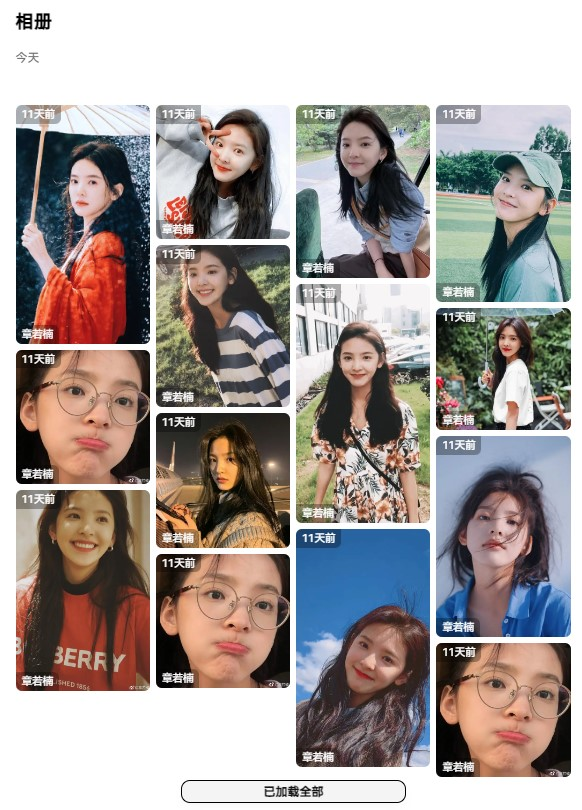
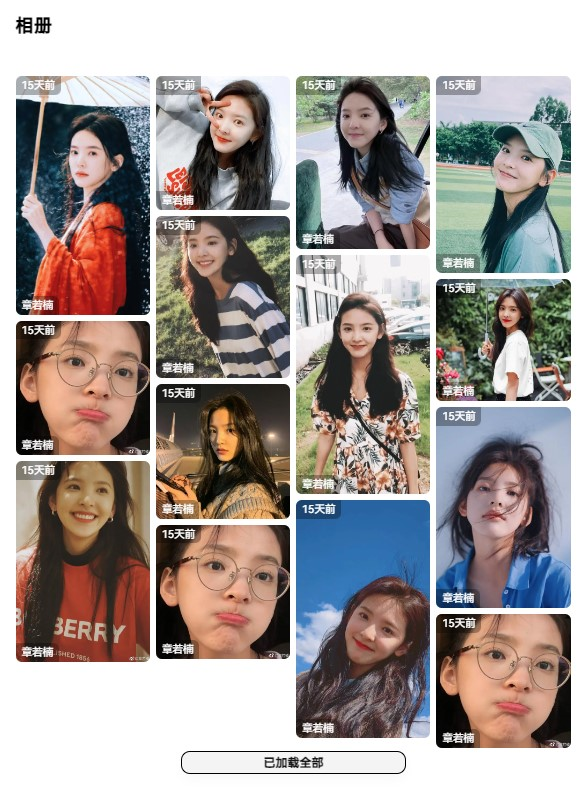
remove time

diff --git a/albums.php b/albums.php
@@ -35,6 +35,11 @@ if (!defined("__TYPECHO_ROOT_DIR__")) {
           <script src="https://jsd.onmicrosoft.cn/gh/Tokinx/ViewImage/view-image.min.js"></script>
 
           <style>
+            /* 删除标题下的时间显示 */
+            .mx-1.flex.flex-col .dark\:text-gray-400 {
+              display: none;
+		        }
+            
             .gallery-photos a img {
               margin: 0!important;
               border-radius: 0;

diff --git a/README.md b/README.md
@@ -3,7 +3,7 @@
 
 由于Jasmine没有为图片设置灯箱效果,所以在代码中添加了这个效果。
 
-如果你已经配置了其他的图片效果,请注释掉35行和219行灯箱效果相关的代码,否则多种图片效果会同时显示,导致显示问题。
+如果你已经配置了其他的图片效果,请注释掉35行和224行灯箱效果相关的代码,否则多种图片效果会同时显示,导致显示问题。
 
 > 建议配置全站灯箱效果。这样不仅相册页面，别的页面的图片也能有灯箱效果。配置方法参考：<https://blog.nice2cu.cc/archives/ViewImage.html>
 
@@ -15,7 +15,7 @@
 
 2. 打开Typecho后台---管理----独立页面----新增----右侧自定义模板----相册页面
 
-3. 标题为相册页面的标题，路径必须与代码第**158行**的`location.pathname`路径相同。默认为albums
+3. 标题为相册页面的标题，路径必须与代码第**163行**的`location.pathname`路径相同。默认为albums
 
 调用格式:
 
